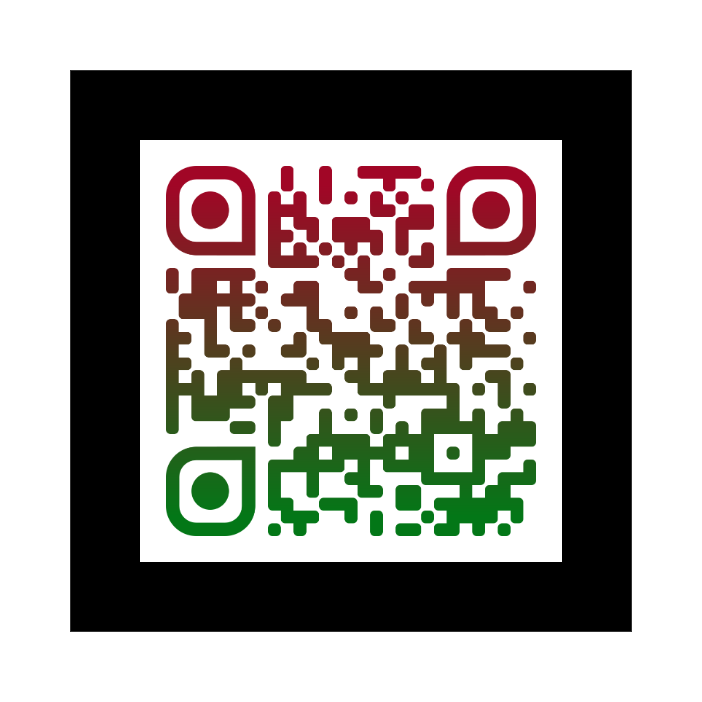
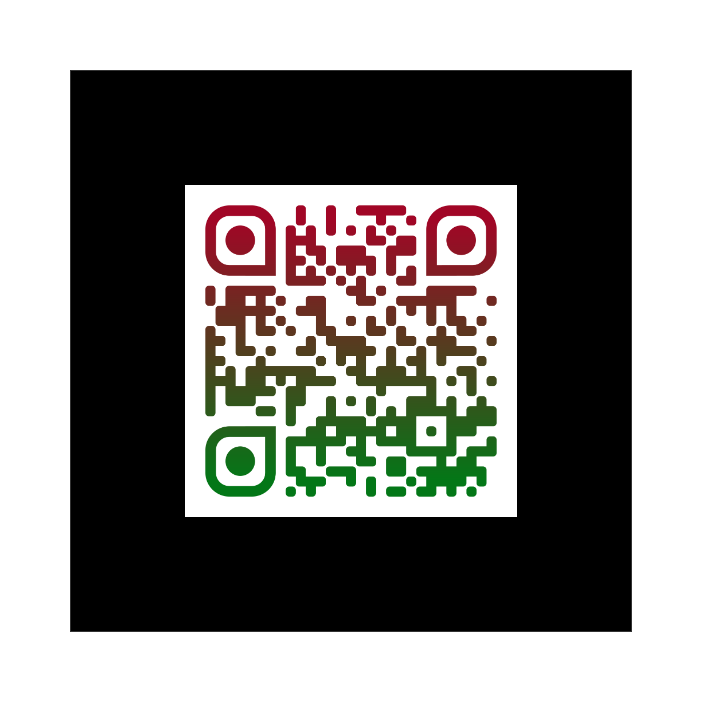
no message

Changed region(s): [[0.1795, 0.1795, 0.8077, 0.8077]]

diff --git a/index.html b/index.html
@@ -25,7 +25,7 @@
       <a-asset-item id="tree" src="assets/model/Tree/model.gltf"></a-asset-item>
     </a-assets>
 
-    <a-marker preset="custom" type="pattern" url="/assets/img/pattern-ar.patt">
+    <a-marker preset="custom" type="pattern" url="/assets/img/pattern-ar2.patt">
 
       <!---   model   --->
       <a-entity   position="0 0 0"
